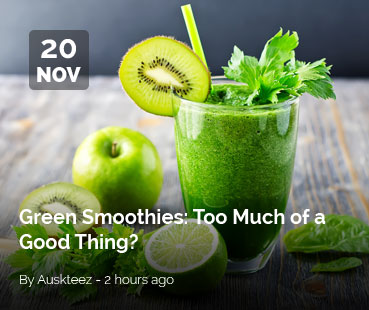
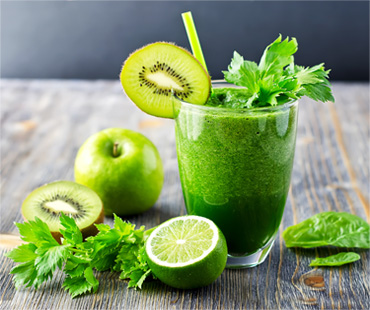
blog section changed + layout fixes

diff --git a/css/styles.css b/css/styles.css
@@ -69,6 +69,9 @@ background: none;
   border: none;
   padding: 5rem 0 0;
 }
+.navbar-fixed-top{
+  z-index:3;
+}
 
 .navbar-default .navbar-nav,
 .navbar-default .navbar-nav > li > a:hover,
@@ -80,6 +83,7 @@ background: none;
 
 .navbar-brand {
   margin-top: -2.2rem;
+  padding-left: 0;
 }
 
 .affix {
@@ -90,6 +94,9 @@ background: none;
 
 .navbar-default li {
   padding: 0 1rem;
+}
+.navbar-default li:last-child{
+  padding-right: 0;
 }
 
 .navbar-default li a {
@@ -164,7 +171,6 @@ background: none;
   .navbar-default{
     padding: 0;
   }
-
   .navbar-collapse {
     background-color: #f9f8fb;
     text-align: center;
@@ -200,6 +206,7 @@ background: none;
   .navbar-brand img {
     height: 6rem;
     margin-top: 2.5rem;
+    padding-left: 1.5rem;
   }
   .navbar-toggle{
     margin-top: 2.5rem;
@@ -233,7 +240,7 @@ background: none;
   font-family: Raleway, sans-serif;
   font-size: 8rem;
   margin-bottom: 2rem;
-  margin-left: -0.6rem;
+  margin-left: -0.3rem;
   color: #262626;
 }
 
@@ -307,7 +314,7 @@ background: none;
   padding: 9% 0;
 }
 
-.section2_content h1 {
+.section2_content h2 {
   font-family: RalewayBold, sans-serif;
   font-size: 7rem;
   margin-top: 0;
@@ -324,7 +331,7 @@ background: none;
     background-position: -5rem;
   }
 
-  .section2_content h1 {
+  .section2_content h2 {
     font-size: 7rem;
   }
 
@@ -344,7 +351,7 @@ background: none;
     background-size: 60%;
   }
 
-  .section2_content h1 {
+  .section2_content h2 {
     font-size: 6rem;
   }
 
@@ -414,7 +421,7 @@ background: none;
   text-align: center;
 }
 
-.section3_header-container h1 {
+.section3_header-container h2 {
   font-family: RalewayBold, sans-serif;
   font-size: 6rem;
   color: white;
@@ -429,7 +436,7 @@ background: none;
     background-position: center top;
   }
 
-  .section3_header-container h1 {
+  .section3_header-container h2 {
     margin-top: 5%;
     margin-bottom: 10%;
     margin-right: 0;
@@ -472,7 +479,7 @@ background: none;
   margin-bottom: 3%;
 }
 
-#section4 .section4_header h1 {
+#section4 .section4_header h2 {
   font-family: RalewayBold, sans-serif;
   font-size: 6rem;
   color: #262626;
@@ -563,7 +570,7 @@ background: none;
   padding: 10% 0 13%;
 }
 
-#section4b h1 {
+#section4b h2 {
   font-family: RalewayBold, sans-serif;
   font-size: 6rem;
   color: #262626;
@@ -648,7 +655,7 @@ background: none;
   margin-bottom: 3%;
 }
 
-#section5 .section5_header h1 {
+#section5 .section5_header h2 {
   font-family: RalewayBold, sans-serif;
   font-size: 6rem;
   margin-bottom: 3rem;
@@ -666,14 +673,38 @@ background: none;
 #section5 .section5_img-row > div {
   position: relative;
 }
+.blog-content{
+  position:relative;
+}
+.blog-date{
+  position: absolute;
+  top: 30px;
+  left: 30px;
+  font-family: RalewayBold, sans-serif;
+  font-size: 2rem;
+  width: 7rem;
+  background-color: rgba(5, 5, 5, 0.4);
+  border-radius: 6px;
+}
+.blog-date p{
+  margin: 0;
+}
+.blog-date p:first-child{
+  font-size: 4rem;
+  margin-top: -10px;
+
+}
+.blog-date p:last-child{
+  font-size: 2.7rem;
+  margin-top: -10px;
+}
 
 .blog-hover {
   position: absolute;
   width: 100%;
   height: 100%;
-  padding-right: 30px;
-  opacity: 0;
   transition: all ease 0.5s;
+  opacity: 0;
 }
 
 .blog-hover:hover {
@@ -681,14 +712,32 @@ background: none;
 }
 
 .blog-hover-content {
-  width: 100%;
+  max-width: 100%;
   height: 100%;
-  background-color: rgba(247, 43, 59, 0.7);
+  background: linear-gradient(rgba(255,255, 255, 0.1), rgba(5, 5, 5, 0.8));
+}
+.blog-hover-content a{
+  font-family: RalewayBold, sans-serif;
+  font-size: 2rem;
+  position: absolute;
+  left: 20px;
+  bottom: 60px;
+  color: white;
+  text-align: left;
+}
+.blog-hover-content p{
+  font-family: RalewayThin, sans-serif;
+  font-size: 1.5rem;
+  position: absolute;
+  left: 20px;
+  bottom: 20px;
+  color: white;
+  text-align: left;
 }
 
-.blog-hover-content i {
-  margin: 30% auto;
-  font-size: 9rem;
+.section5_btn-row-3{
+  margin-top: 6%;
+  margin-bottom: 4%;
 }
 
 #section5 .section5_btn {
@@ -717,11 +766,37 @@ background: none;
   #section5 img {
     margin-bottom: 2rem;
   }
+  .blog-date {
+    left: 45%;
+  }
+  .blog-hover{
+    padding: 0 0rem 2rem;
+    top: 0;
+  }
+  .blog-hover-content{
+    max-width: 370px;
+    margin: 0 auto;
+  }
+  .blog-hover-content a,
+  .blog-hover-content p{
+    left: 20%;
+  }
 }
-
-@media screen and (max-width: 768px) {
-  .blog-hover {
-    display: none;
+@media screen and (max-width: 450px) {
+  .blog-date {
+    left: 3rem;
+  }
+  .blog-hover-content a,
+  .blog-hover-content p{
+    left: 2rem;
+  }
+  .blog-date p:first-child{
+    font-size: 3rem;
+    margin: 0;
+  }
+  .blog-date p:last-child{
+    font-size: 2rem;
+    margin: 0;
   }
 }
 
@@ -742,7 +817,7 @@ background: none;
   margin-bottom: 3%;
 }
 
-#section6 .section6_header h1 {
+#section6 .section6_header h2 {
   font-family: RalewayBold, sans-serif;
   font-size: 6rem;
   margin-bottom: 3rem;

diff --git a/index.html b/index.html
@@ -15,7 +15,8 @@
 	<link href="css/bootstrap.css" rel="stylesheet">
 	<link href="css/styles.css" rel="stylesheet">
 	<link href="css/font-awesome.min.css" rel="stylesheet" type="text/css">
-	<link href="https://maxcdn.bootstrapcdn.com/font-awesome/4.7.0/css/font-awesome.min.css" rel="stylesheet" type="text/css">
+	<link href="https://maxcdn.bootstrapcdn.com/font-awesome/4.7.0/css/font-awesome.min.css" rel="stylesheet"
+	      type="text/css">
 	<link href="https://fonts.googleapis.com/css?family=Raleway:300,400,900" rel="stylesheet">
 	<link href="https://cdnjs.cloudflare.com/ajax/libs/ekko-lightbox/5.1.1/ekko-lightbox.css" rel="stylesheet">
 
@@ -84,7 +85,7 @@
 <section id="section2">
 	<div class="container">
 		<div class="section2_content col-sm-offset-7 col-sm-5">
-			<h1>About Us</h1>
+			<h2>About Us</h2>
 			<p>Abore Cahee magna aliqua. Ut enim ad minim veniam, quis nostrud exercitation ullamco laboris nisi ut aliquip ex
 				ea commodo consequat. Duis aute irure dolor in reprehenderit in voluptate velit esse cillum.</p>
 			<p>Nim id est laborum. Sed ut perspiciatis unde omnis iste natus error sit voluptatem accusantium doloremque
@@ -95,7 +96,7 @@
 <section id="section3">
 	<div class="container">
 		<div class="section3_header-container col-md-6 col-md-push-6">
-			<h1>Our Services</h1>
+			<h2>Our Services</h2>
 		</div>
 		<div class="section3_content col-md-6 col-md-pull-6">
 			<div class="section3_icon-wrapper col-sm-6">
@@ -132,7 +133,7 @@
 <section id="section4">
 	<div class="container">
 		<div class="section4_header row">
-			<h1>Gallery</h1>
+			<h2>Gallery</h2>
 			<p class="col-sm-8 col-sm-offset-2">Consectetur adipisicing elit, sed do eiusmod tempor incididunt ut labore et
 				dolore magna aliqua. Ut enim ad minim veniam, quis nostrud exercitation ullamco laboris nisi ut aliquip ex ea
 				commodo consequat.</p>
@@ -174,7 +175,7 @@
 <section id="section4b">
 	<div class="bluberry-banner">
 		<div class="container">
-			<h1>Subscribe To Us</h1>
+			<h2>Subscribe To Us</h2>
 			<div>
 				<p class="col-md-6">Dolor sit amet, consectetur adipisicing elit, sed do eiusmod tempor incididunt ut
 					labore et dolore magna aliqua. Ut enim ad minim veniam.</p>
@@ -191,35 +192,58 @@
 <section id="section5">
 	<div class="container">
 		<div class="section5_header row">
-			<h1>Blog</h1>
+			<h2>Blog</h2>
 			<p class="col-sm-8 col-sm-offset-2">Dolore magna aliqua. Ut enim ad minim veniam, quis nostrud exercitation
 				ullamco laboris nisi ut aliquip ex ea commodo consequat. Duis aute irure dolor in reprehenderit in voluptate
 				velit.</p>
 		</div>
 		<div class="row section5_img-row">
 			<div class="col-sm-4">
-				<div class="blog-hover">
-					<div class="blog-hover-content">
-						<i class="fa fa-plus fa-3x"></i>
+				<div class="blog-content">
+					<div class="blog-hover">
+						<div class="blog-hover-content">
+							<a href="#">Green Smoothies: Too Much of a Good Thing?</a>
+							<p>By Auskteez - 2 hours ago</p>
+						</div>
 					</div>
+					<div class="blog-date">
+						<p>20</p>
+						<p>NOV</p>
+					</div>
+					<img src="assets/blog1.jpg"/>
 				</div>
-				<img src="assets/blog1.jpg"/>
 			</div>
+
 			<div class="col-sm-4">
-				<div class="blog-hover">
-					<div class="blog-hover-content">
-						<i class="fa fa-plus fa-3x"></i>
+				<div class="blog-content">
+					<div class="blog-hover">
+						<div class="blog-hover-content">
+							<a href="#">Growing Food and a “Thirst” for Innovation</a>
+							<p>By Auskteez - 2 hours ago</p>
+						</div>
 					</div>
+					<div class="blog-date">
+						<p>14</p>
+						<p>NOV</p>
+					</div>
+					<img src="assets/blog2.jpg"/>
 				</div>
-				<img src="assets/blog2.jpg"/>
 			</div>
+
 			<div class="col-sm-4">
-				<div class="blog-hover">
-					<div class="blog-hover-content">
-						<i class="fa fa-plus fa-3x"></i>
+				<div class="blog-content">
+					<div class="blog-hover">
+						<div class="blog-hover-content">
+							<a href="#">Pesticides & Food: What You Need to Know</a>
+							<p>By Auskteez - 6 hours ago</p>
+						</div>
 					</div>
+					<div class="blog-date">
+						<p>10</p>
+						<p>NOV</p>
+					</div>
+					<img src="assets/blog3.jpg"/>
 				</div>
-				<img src="assets/blog3.jpg"/>
 			</div>
 		</div>
 		<div class="row section5_btn-row-3">
@@ -230,7 +254,7 @@
 <section id="section6">
 	<div class="container">
 		<div class="section6_header row">
-			<h1>Contact</h1>
+			<h2>Contact</h2>
 			<p class="col-sm-6 col-sm-offset-3">For new projects, ideas, business or anything
 				you'd like to discuss, contact with me!</p>
 		</div>

diff --git a/js/owocki.js b/js/owocki.js
@@ -24,7 +24,7 @@
   });
 
   //change icon in small nav
-  $('.fa').click(function() {
+  $('#section1 .fa').click(function() {
     $(this).toggleClass('fa-bars');
   });
 
